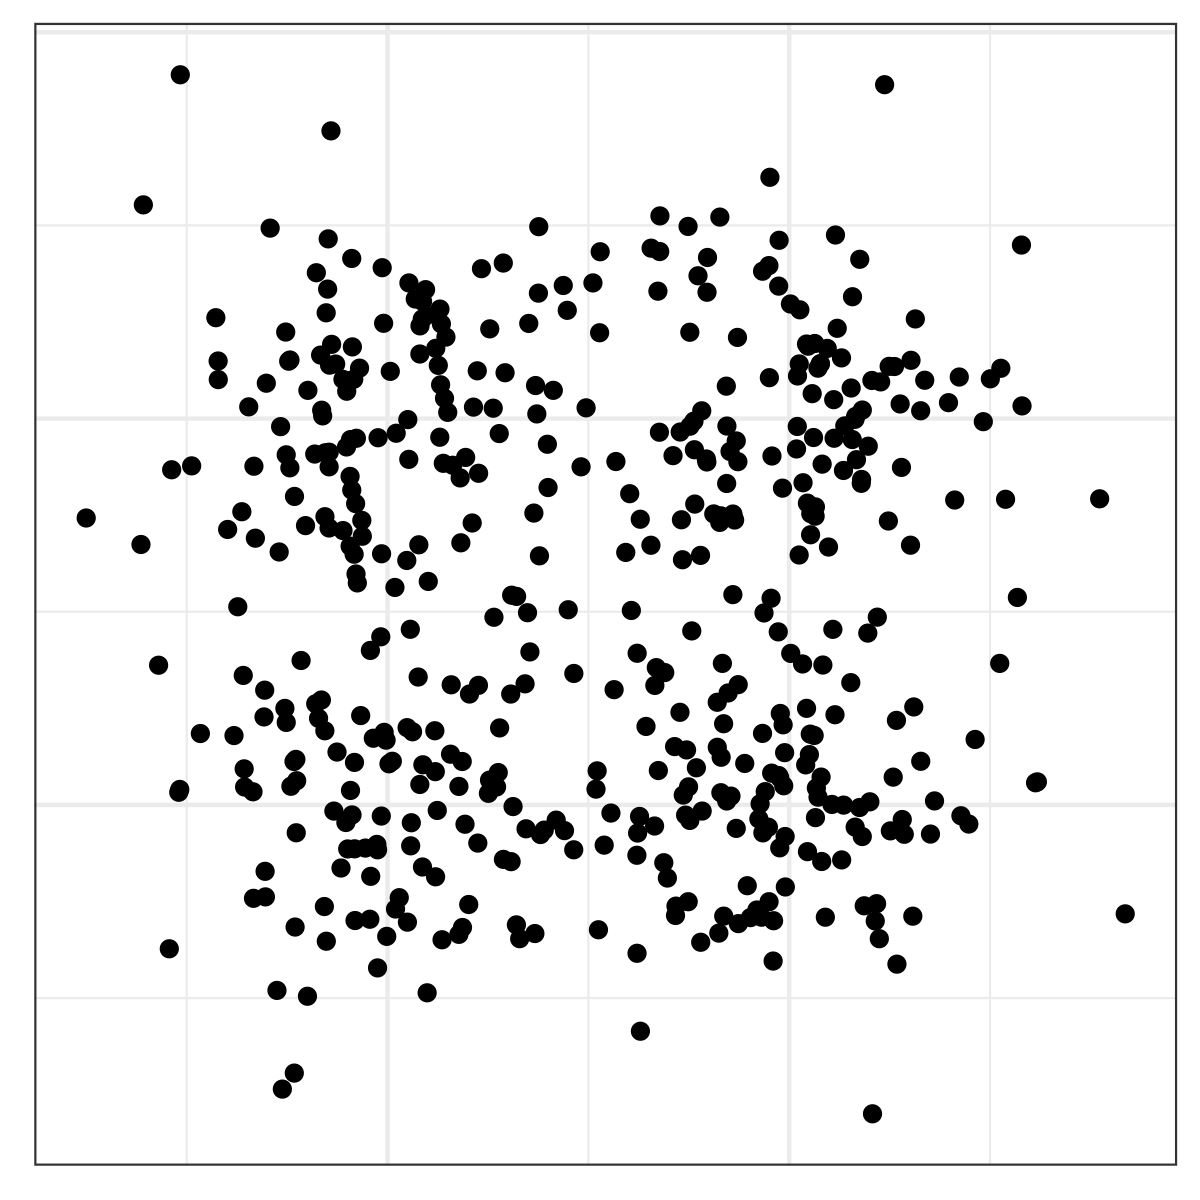
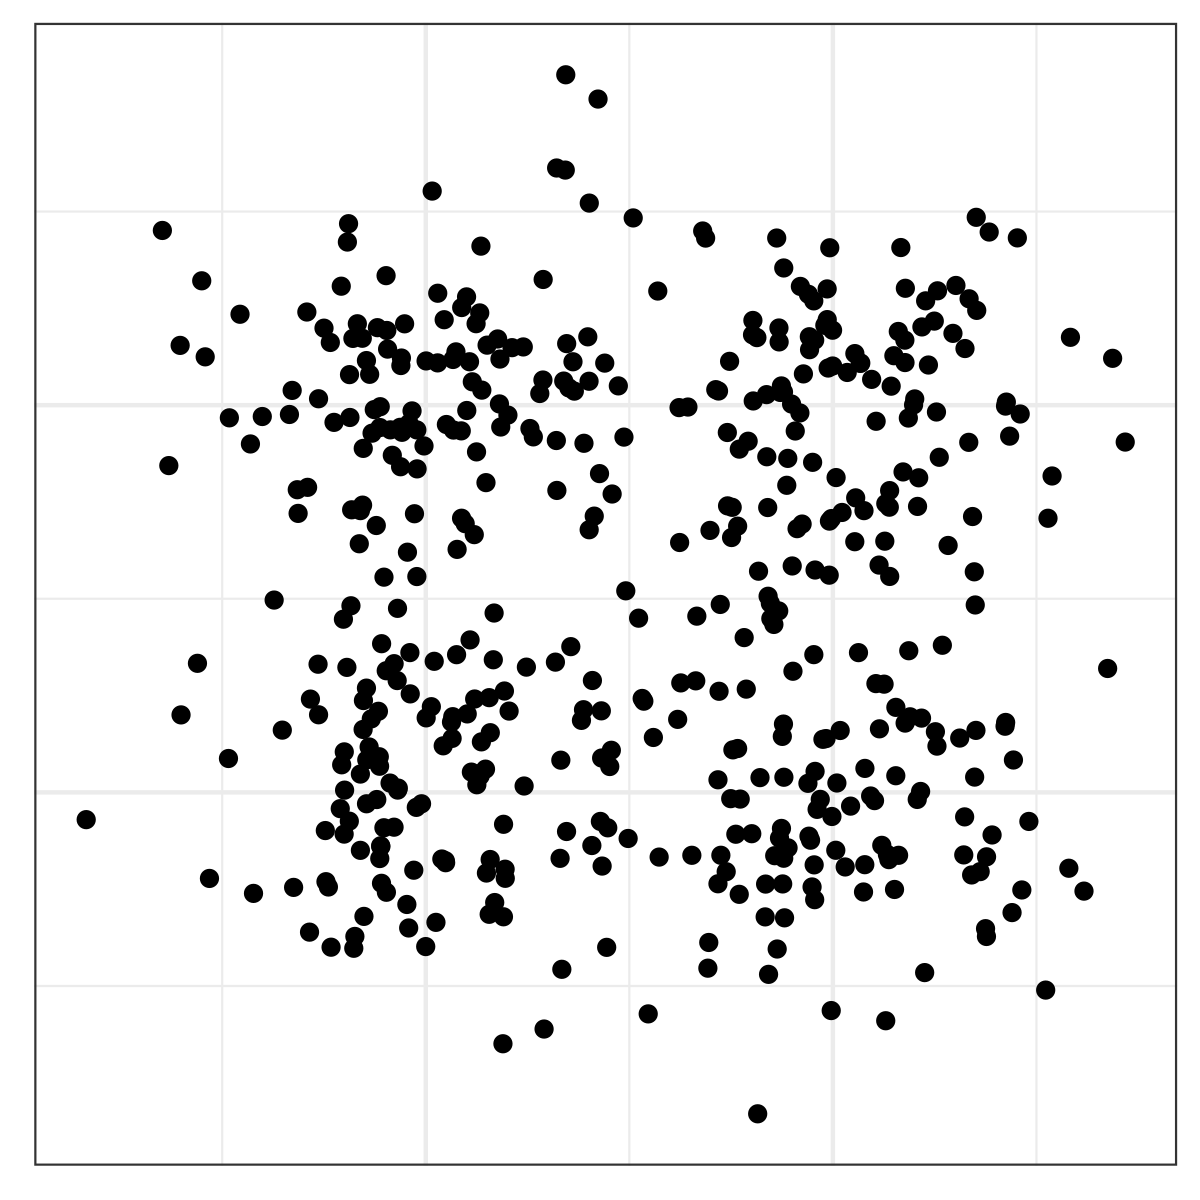
slide tweaks

diff --git a/lazy-graphics.html b/lazy-graphics.html
@@ -22,6 +22,17 @@ class: center, middle, inverse, title-slide
 
 
 
+## Graphs: External Cognition
+
+- Making physical comparisons is easier than mentally rearranging data
+- We can see things in a graph we miss in a table or summary statistics
+
+.center[
+&lt;img alt="The datasaurus dozen" src="https://d2f99xq7vri1nk.cloudfront.net/AllDinosGrey_1.png" width = "80%"/&gt;
+]
+
+.bottom[[The Datasaurus Dozen](https://www.autodesk.com/research/publications/same-stats-different-graphs), Justin Matejka &amp; George Fitzmaurice]
+---
 class: inverse
 # Questions To Start With
 
@@ -51,6 +62,44 @@ What is my audience?
 Proximity | Proximity + Similarity
 -------- | -------
 ![Proximity based grouping](deps/lazy-graphics/prox-sim-1.png) | ![Similarity and proximity based grouping](deps/lazy-graphics/prox-sim-2.png)
+
+The aesthetic mappings you use highlight features of your data set
+
+---
+
+.center[
+&lt;img src="figure/set-48-k-5-sdline-0.45-sdgroup-0.25-TREND.png" width = "60%"/&gt;
+]
+
+
+---
+
+.center[
+&lt;img src="figure/set-48-k-5-sdline-0.45-sdgroup-0.25-COLOR.png" width = "60%"/&gt;
+]
+
+---
+
+## What do I want to show?
+
+.pull-left[
+![](figure/set-48-k-5-sdline-0.45-sdgroup-0.25-COLOR.png)
+
+5 | 12 | 18 | N
+- | -- | -- | --
+28.1% | 9.4% | 62.3% | 31
+
+]
+.pull-right[
+![](figure/set-48-k-5-sdline-0.45-sdgroup-0.25-TREND.png)
+
+
+5 | 12 | 18 | N
+- | -- | -- | --
+17.4% | 52.2% | 30.3% | 22
+]
+
+.huge.cerulean.emph.bottom-highlight[Aesthetic choices matter!]
 
 ---
 

diff --git a/template/unl.css b/template/unl.css
@@ -180,3 +180,9 @@ div.remark-slide {
   font-size: 70%;
   /*width: 100%;*/
 }
+.bottom-highlight {
+  left: 12%;
+  position: absolute;
+  bottom: 5px;
+  /*width: 100%;*/
+}
